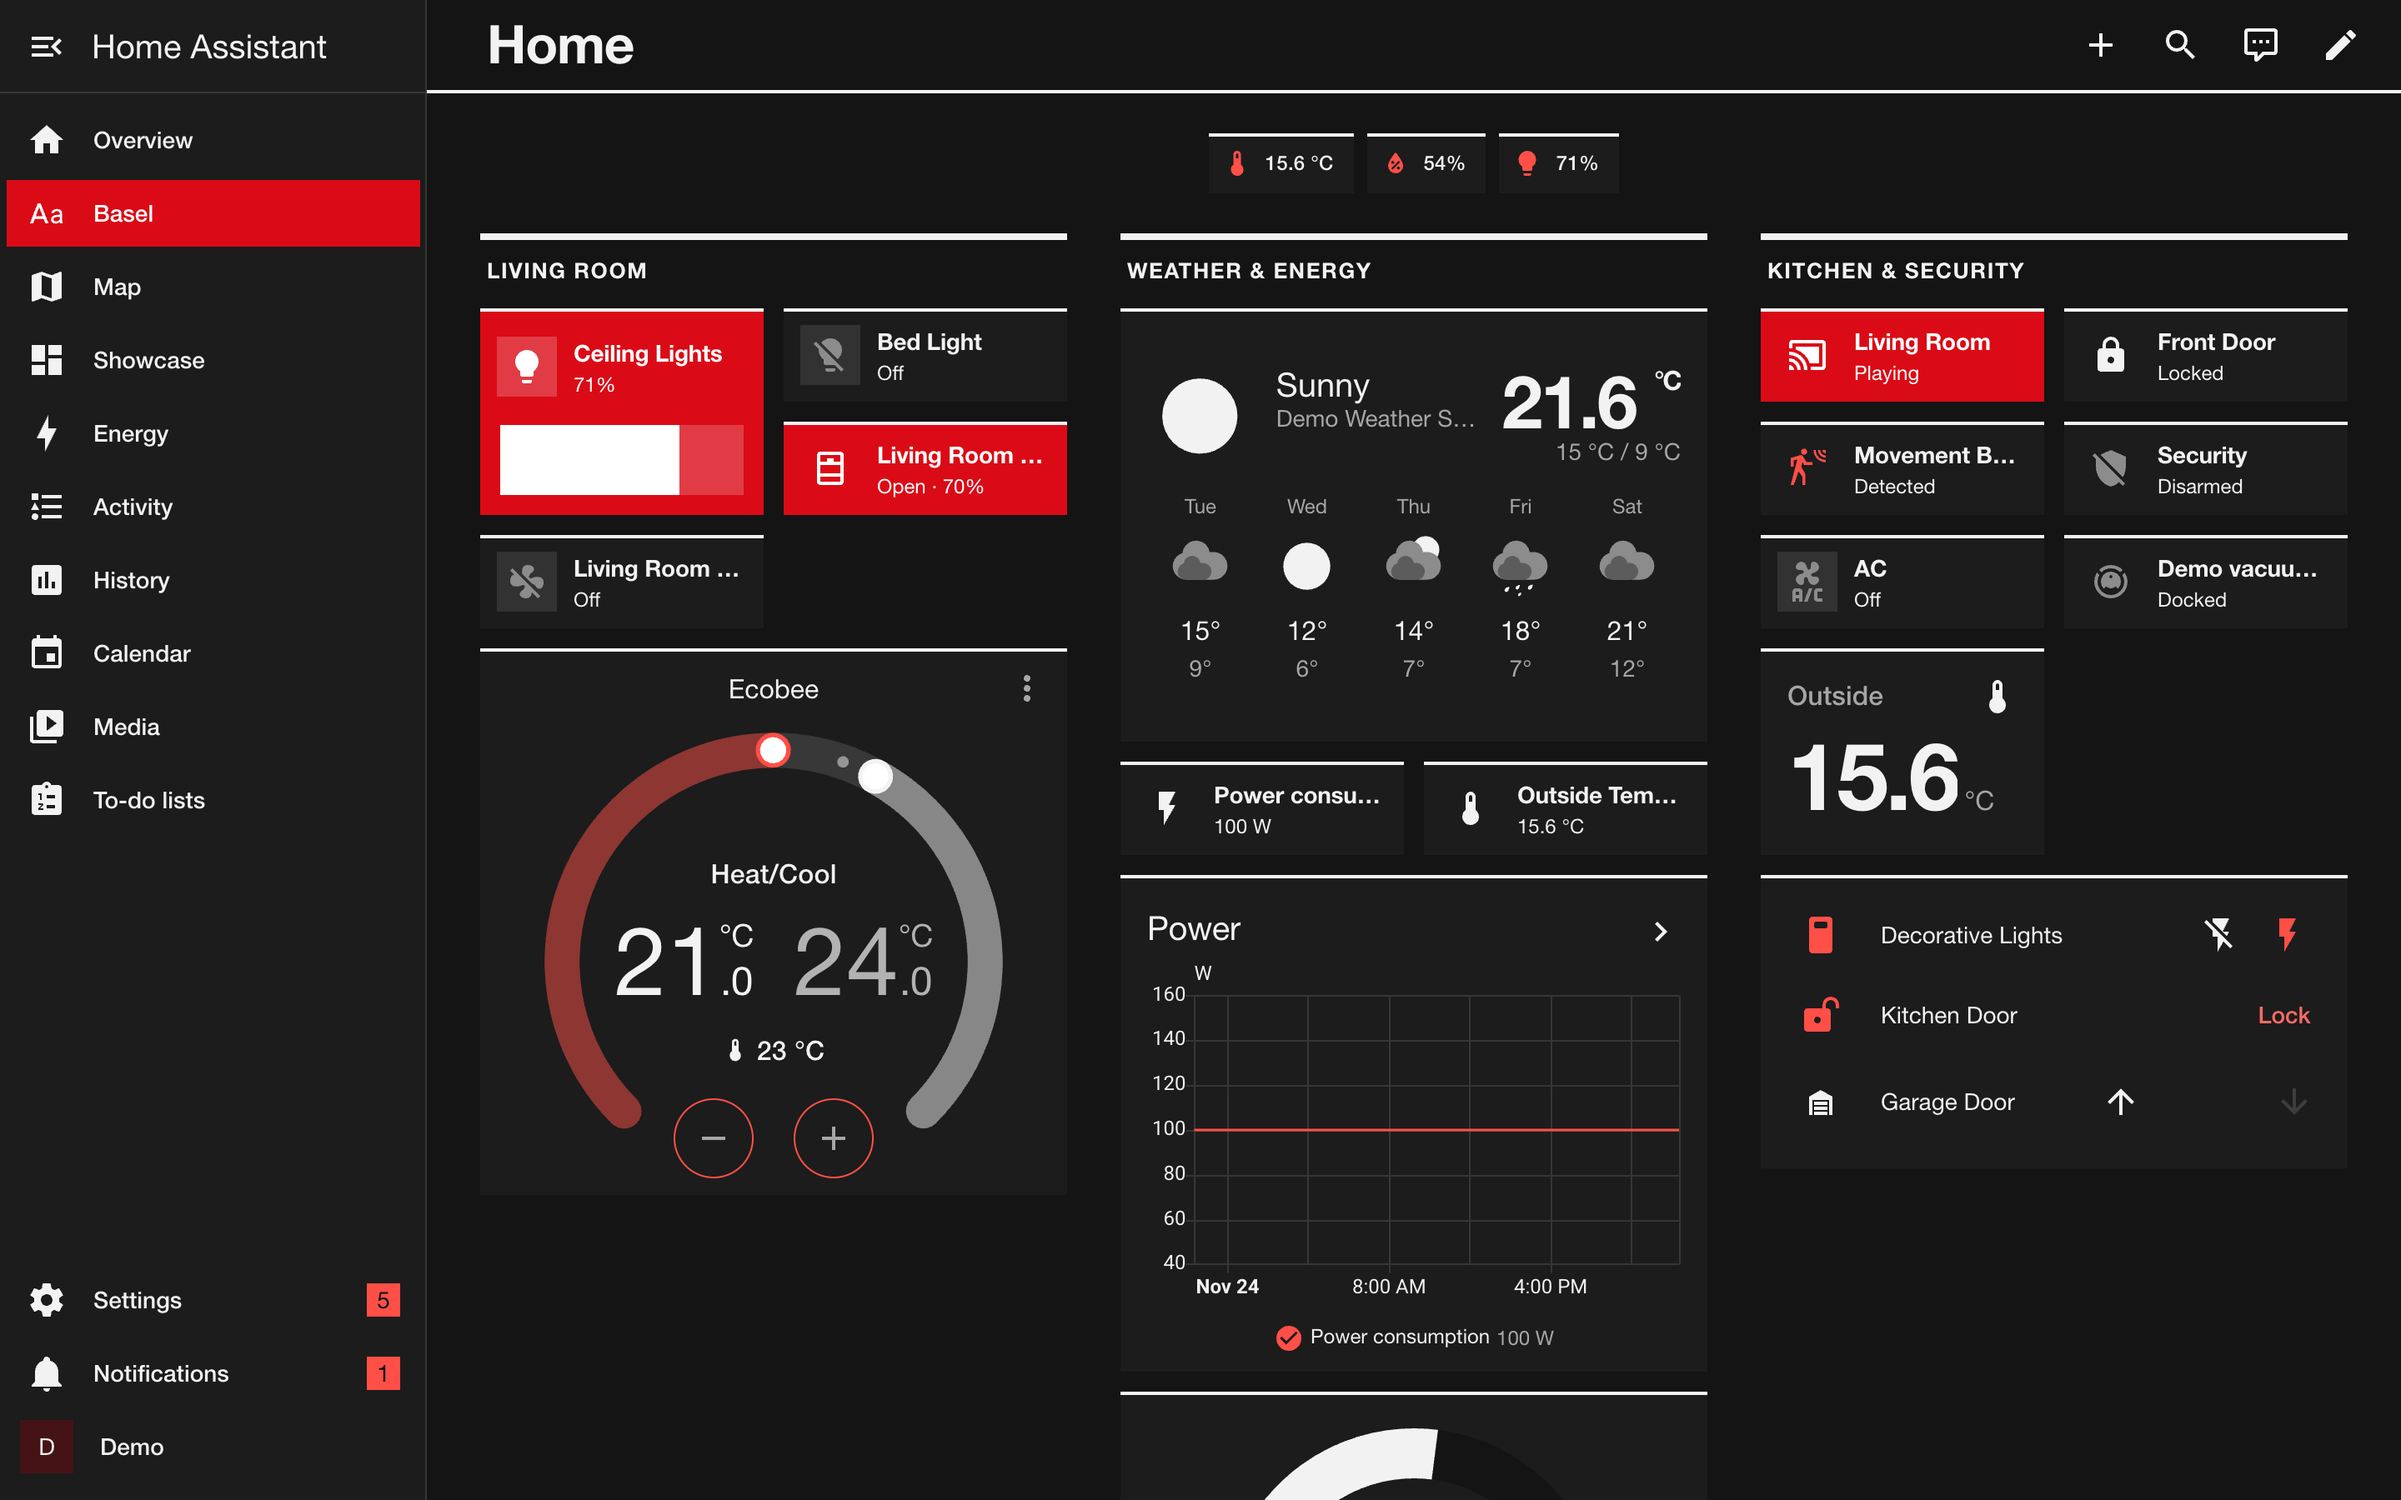
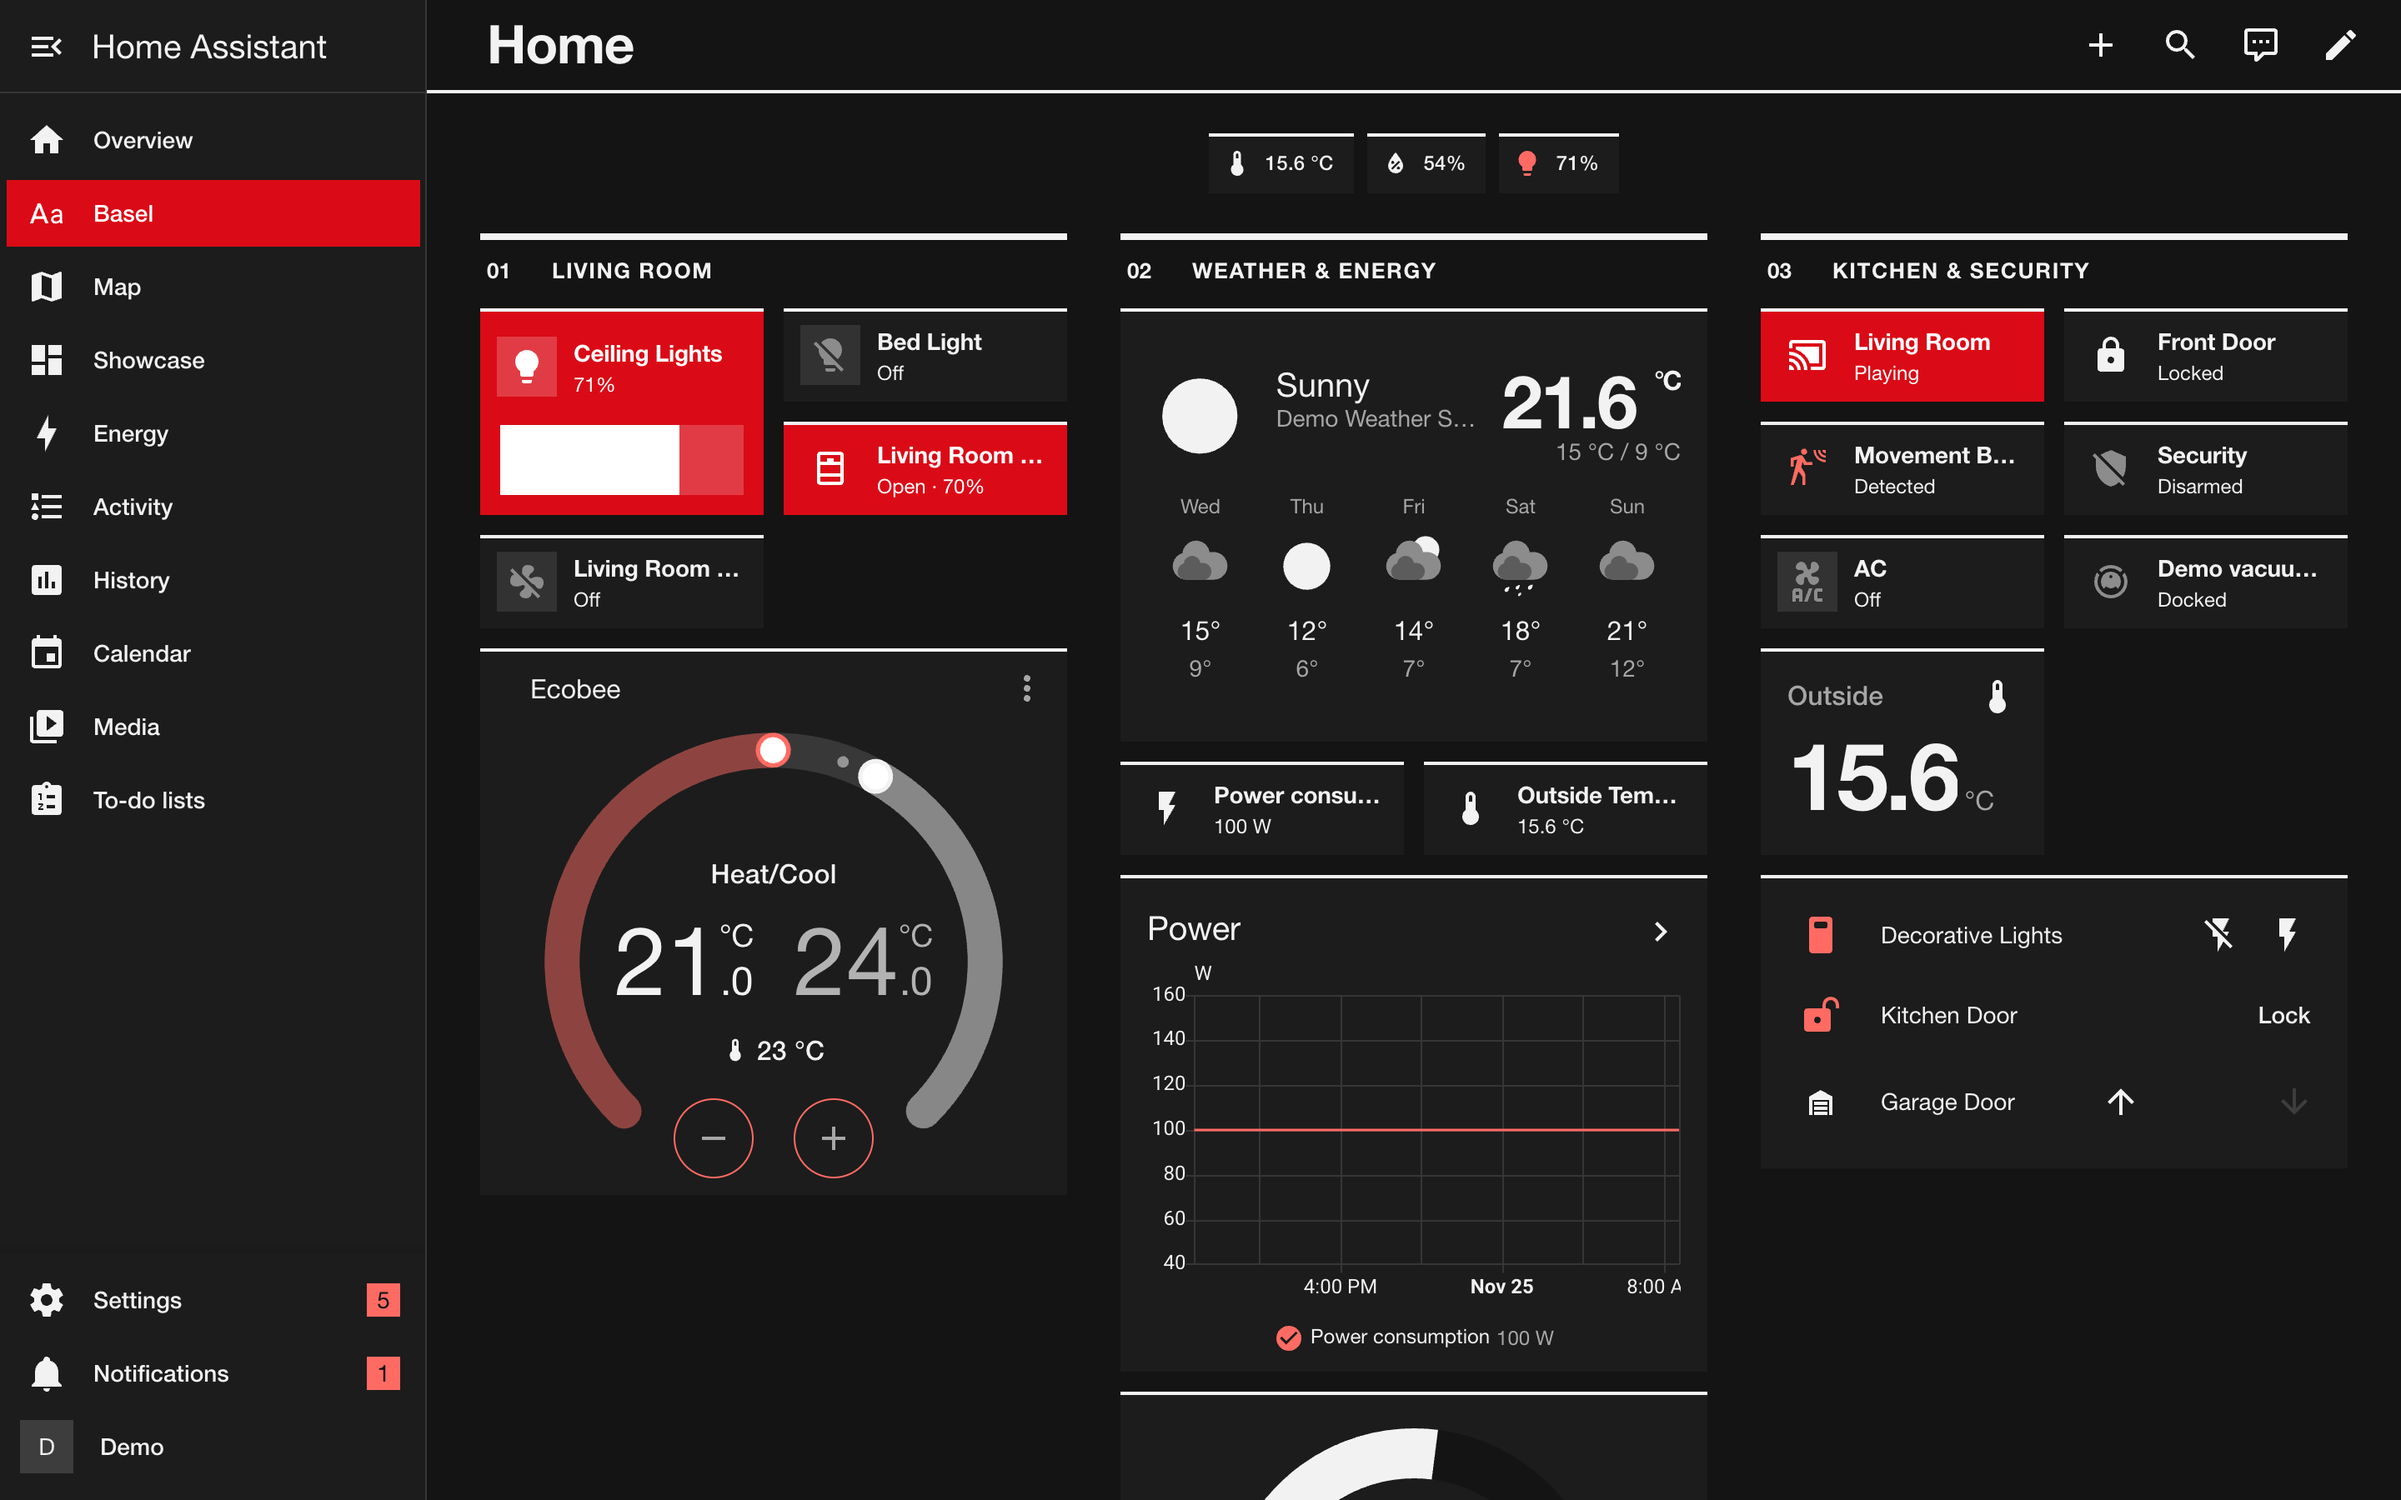
Basel 1.1.0: visible tile focus, ink for actions, numbered headings

diff --git a/README.md b/README.md
@@ -14,18 +14,22 @@ A Home Assistant theme in the International Typographic Style, the Swiss poster 
 
 ## What you get
 
-- **One red, black and paper.** Red is the primary colour and the colour of everything that is on, heating, lit, open or triggered, and of the selection. Calm states (cooling, locked, docked) are black, off is grey. The warning and success scales of the frontend are black and grey too, so no third hue turns up in buttons, alerts or chips.
+- **One red, black and paper.** Red marks what needs your eye: everything that is on, heating, lit, open or triggered, errors and alarms, and the selection. Buttons, links and tabs are black, calm states (cooling, locked, docked) are black, off is grey. Warnings are black on pale red, errors red on pale red, success and info black on grey, so no third hue turns up in buttons, alerts or chips.
 - **Rules instead of frames.** No borders, no shadows, no rounded corners. Every card starts with a thin black rule, and the grid gap is a little wider so the columns read like a poster.
 - **A neo-grotesque from the system:** Helvetica Neue on Apple devices, Arial on Windows, Nimbus Sans or Liberation Sans on Linux, the system sans on Android. Tile names and headings are bold and set tight. Nothing is downloaded.
-- **Readable red.** White on red is 5.2:1, red text on the page 4.6:1 (WCAG AA). Every text and control colour pair of both modes was measured.
+- **Readable red.** White on red is 5.2:1, red text on the page 4.6:1 (WCAG AA). All text pairs and the colours of switches, fields, sliders and the keyboard focus were measured in both modes. A focused tile gets a 2 px ring in black (white in dark mode), also around solid red tiles.
 - **Dark mode is its own design:** white and red on a deep black-grey with white rules. Red tiles keep white text; red text and icons use a lighter red that reads on dark grey. It is not an inverted light mode.
-- **Optional extras with card-mod:** switched-on lights, switches, fans, media players, climate, covers and similar entities become solid red tiles, big numbers of entity, sensor and weather cards become large and bold, heading cards get a heavier rule and capitals, the dashboard title grows, coloured lights turn red in badges, and the selected sidebar entry becomes a red bar.
+- **Optional extras with card-mod:** switched-on lights, switches, fans, media players, climate, covers and similar entities become solid red tiles, big numbers of entity, sensor and weather cards become large and bold, heading cards get a heavier rule, capitals and a running number (01, 02, 03 …) like on a poster, the thermostat title moves to the left, the dashboard title grows, coloured lights turn red in badges, and the selected sidebar entry becomes a red bar.
 
 Without card-mod the theme still works: paper, rules, red, black and the font stay, switched-on devices show a red icon instead of a solid tile, and headings are bold without capitals.
 
-![Without card-mod: rules and red icons, no solid tiles](https://raw.githubusercontent.com/wsclx/basel-theme/main/images/dashboard-light-desktop-no-cardmod.png)
+| Without card-mod, light | Without card-mod, dark |
+|---|---|
+| ![Without card-mod in light mode: rules and red icons, no solid tiles](https://raw.githubusercontent.com/wsclx/basel-theme/main/images/dashboard-light-desktop-no-cardmod.png) | ![Without card-mod in dark mode](https://raw.githubusercontent.com/wsclx/basel-theme/main/images/dashboard-dark-desktop-no-cardmod.png) |
 
 ![Entity list in dark mode](https://raw.githubusercontent.com/wsclx/basel-theme/main/images/entities-dark-desktop.png)
+
+![Dialog of a coloured light on a phone: the light keeps its own colour](https://raw.githubusercontent.com/wsclx/basel-theme/main/images/moreinfo-light-phone.png)
 
 ## Requirements
 
@@ -117,7 +121,9 @@ Change the variables below in a copy of the theme, or override them with card-mo
 | `basel-rule` | Colour of the rule along the top of every card |
 | `ha-card-box-shadow` | The rule itself (`inset 0 2px 0 …`); set `none` for cards without a rule |
 | `basel-sans` | The font stack |
-| `primary-color`, `ha-color-primary-*`, `ha-color-red-*` | The red of buttons, switches, links and alerts |
+| `primary-color`, `ha-color-primary-*` | Ink of buttons, links and tabs |
+| `ha-color-red-*`, `ha-color-orange-*` | Red of errors and alarms; pale red behind warnings |
+| `switch-checked-track-color`, `control-slider-color` | Red of switches and sliders that are on |
 | `lovelace-background`, `card-background-color` | Paper behind the cards and of the cards |
 | `state-active-color`, `state-inactive-color` | Colour of on and off icons |
 | `red-color`, `amber-color`, `blue-color`, `green-color` … | The palette behind all state colours: warm colours red, cool colours black |
@@ -128,9 +134,10 @@ Change the variables below in a copy of the theme, or override them with card-mo
 - Home Assistant does not guarantee theme variables between releases. If something looks off after an update, please open an issue with your version.
 - **Coloured lights:** a light that reports a colour shows that colour in its tile icon, its brightness slider and its badge. The frontend sets it per light, so a theme cannot change it. With card-mod the tile turns red and the badge red; in the light's dialog the colour picker keeps its colours.
 - Without card-mod a theme cannot fill a whole tile by its state, only the icon. The solid red tile needs card-mod, and so do the capitals and the heavier rule on heading cards.
-- Section numbers like "01" in front of headings are content: write them into the heading if you want them.
 - Badges stay centred above the sections; their alignment is fixed in the frontend.
+- The running numbers count every heading card of a view in order. A view with two headings in one section gets two numbers.
 - Switches keep their round shape, and round icons stay round: both are fixed in the frontend.
+- The thermostat draws its heating range in a lighter red, its track in a light grey and keeps its number and buttons centred; all of this is fixed in the frontend.
 - The sidebar keeps the frontend font (Roboto) without card-mod; card-mod switches it to the theme font.
 - Weather icons are the frontend's filled icons; the theme sets them to black and grey.
 - Camera images, maps, media artwork and entity pictures keep their own colours, and so do the round icons of the settings menu and the logos of integrations.

diff --git a/CHANGELOG.md b/CHANGELOG.md
@@ -5,6 +5,22 @@ The format follows [Keep a Changelog](https://keepachangelog.com/en/1.1.0/), ver
 
 ## [Unreleased]
 
+## [1.1.0] - 2026-11-25
+
+### Fixed
+- Keyboard focus on tiles (card-mod): a 2 px ring in black (white in dark mode) around the tile. Before, the ring of a solid red tile was white on the light page and could not be seen.
+
+### Changed
+- Buttons, links and tabs are black (white in dark mode); red is kept for switched-on states, heating, alarms, errors and the selection, so it stays a signal.
+- Warnings are black on pale red, errors red, success and info black on grey.
+- One red for text in dark mode (`#ff6b63`) instead of two close shades.
+- Darker track for switches that are off, now at least 3:1 against the card.
+
+### Added
+- Heading cards are numbered 01, 02, 03 … like the columns of a poster (card-mod).
+- The thermostat title is set flush left (card-mod).
+- Arimo added to the font stack (ChromeOS).
+
 ## [1.0.0] - 2026-11-24
 
 ### Added
